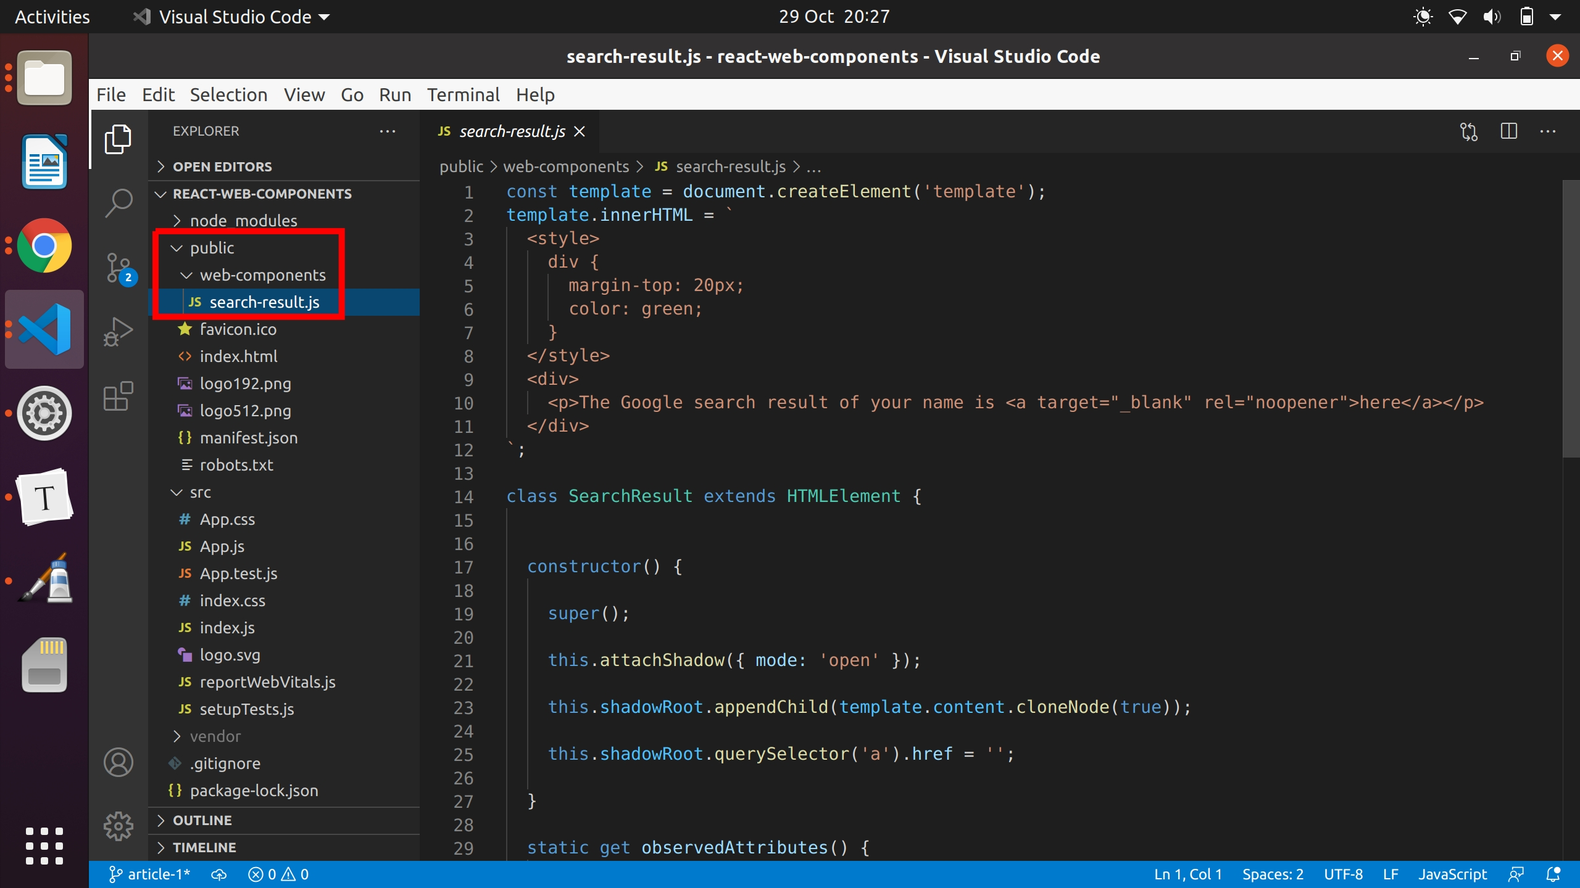
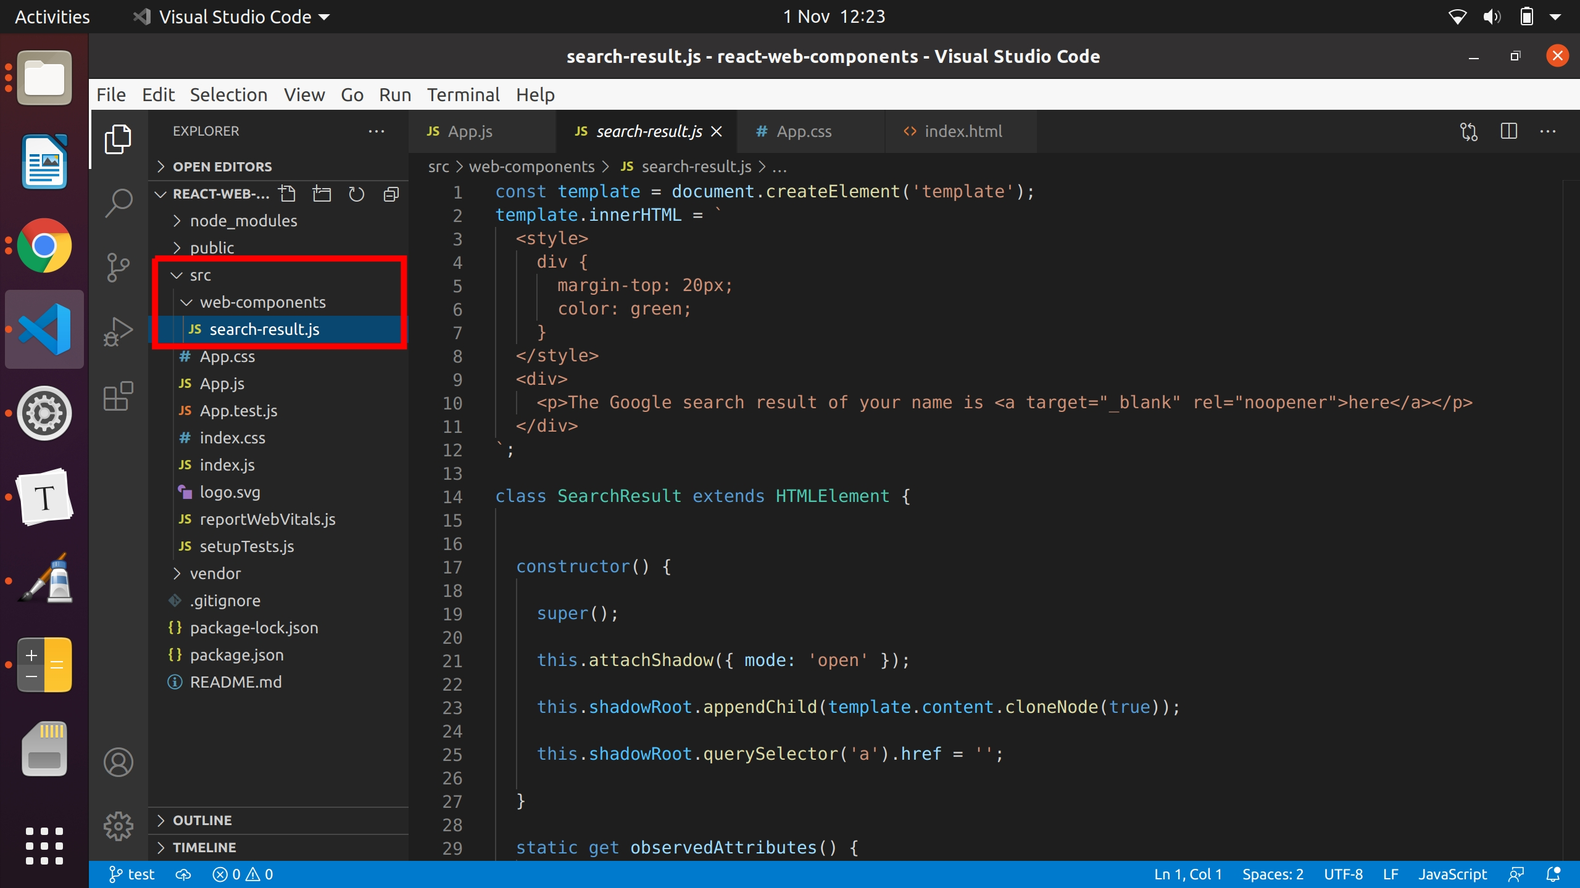
edit readme

diff --git a/Readme.md b/Readme.md
@@ -20,17 +20,17 @@ Table of contents:
 
   
 
-_Acknowledgments: the content of this article was inspired by [Nikos Tsokos](https://twitter.com/n_tsokos), member of [Scotland's Angular Meetup](https://www.youtube.com/channel/UCWIfQn9vUayDkzrrDIjdAjg)_.
+_Special thanks to: [Nikos Tsokos](https://twitter.com/n_tsokos), member of [Scotland's Angular Meetup](https://www.youtube.com/channel/UCWIfQn9vUayDkzrrDIjdAjg) who inspired me to write this article,  [Gonzalo Aguirre](https://twitter.com/\_gonaguirre) Co-Founder & CTO of [Underscope](https://underscope.io), and my fiancée Sarah Acheson for reviewing it._
 
-**Note: when you copy and paste code from the code snippets, don't include the top comment that tells the name of the file, like `//App.js` or `//index.html`.**
+**Note: when you copy and paste code from the code snippets, don't include the top comment that tells the name of the file, like `//App.js` or `//index.html` because it may break your code.**
 
 ## What are web components?
 
 Web Components are a set of web platform APIs that allow you to **create new custom, reusable, encapsulated HTML tags** to use in web pages and web apps.
 
-For example, we can create our new component called  `<my-web-component>`  for example, with it's unique styling and functionality, and use it in **any JS framework or library** . And besides that, it works across **all modern browsers**! Sounds too good to be true, doesn't it? 
+For example, we can create our new component called  `<my-web-component>`, with its unique styling and functionality, and use it in **any JavaScript framework or library** . And besides that, it works across **[most modern browsers!](https://caniuse.com/?search=web%20components)** Sounds too good to be true, doesn't it? 
 
-The fact that these components are framework agnostic, makes creators of components libraries more profitable and future proof as well. This is why this is the next big thing and you should consider getting on board in these early days and take advantage of it.
+The fact that these components are framework agnostic, makes creators of component libraries more profitable and future proof as well. This is why this is the next big thing and you should consider getting on board in these early days and take advantage of it.
 
 If you want to have some extra reading, visit the official website of Web Components at [webcomponents.org](https://www.webcomponents.org/) and the MDN Docs at [developer.mozilla.org/en-US/docs/Web/Web_Components](https://developer.mozilla.org/en-US/docs/Web/Web_Components).
 
@@ -52,7 +52,7 @@ So, the app consists of an input field, where you can type your name, and a gree
 
 After creating this Web Component, we're gonna build the same app in React, Vue and Angular, and consume it in each app.
 
-To create the Web Component, lets open a code editor and create a JS file, that we can name `search-result.js` and paste this content there:
+To create the Web Component, lets open a code editor and create a `.js` file, that we can name `search-result.js` and paste this content there:
 
 ```javascript
 //search-result.js
@@ -112,7 +112,7 @@ You might be wondering what's all the code above about, so lets see each part st
 const template = document.createElement('template');
 ````
 
-The first step is to create a **[HTML Content Template](https://developer.mozilla.org/en-US/docs/Web/HTML/Element/template) (`<template>`) element**, which is a mechanism for holding [HTML](https://developer.mozilla.org/en-US/docs/Glossary/HTML) that is not to be rendered immediately when a page is loaded but may be instantiated subsequently **during runtime using JavaScript**. This `<template>` element can be created with an API provided by the browser `document.createElement()`, that when passed a string with the name of the element we want to create, it returns it. To know more, click [here](https://developer.mozilla.org/en-US/docs/Web/API/Document/createElement).
+The first step is to create a **[HTML Content Template](https://developer.mozilla.org/en-US/docs/Web/HTML/Element/template)** (`<template>`) element, which is a mechanism for holding [HTML](https://developer.mozilla.org/en-US/docs/Glossary/HTML) that is not to be rendered immediately when a page is loaded but may be instantiated subsequently **during runtime using JavaScript**. This `<template>` element can be created with an API provided by the browser `document.createElement()`, that when passed a string with the name of the element we want to create, it returns it. To know more, click [here](https://developer.mozilla.org/en-US/docs/Web/API/Document/createElement).
 
 
 
@@ -132,7 +132,7 @@ template.innerHTML = `
 `;
 ```
 
-This template element is stored in a variable called `template` that has some properties and one of them is [innerHTML](https://www.w3schools.com/jsref/prop_html_innerhtml.asp) which sets the HTML content of the element. There, we can add the HTML we want to display on the screen, like `<div>  `, `<p>`, `<a>` and elements.
+This template element is stored in a variable called `template` that has some properties and one of them is [innerHTML](https://www.w3schools.com/jsref/prop_html_innerhtml.asp) which sets the HTML content of the element. There, we can add the HTML we want to display on the screen, like `<div>  `, `<p>`, `<a>` and any other elements.
 
 
 
@@ -142,9 +142,9 @@ This template element is stored in a variable called `template` that has some pr
 class SearchResult extends HTMLElement { }
 ```
 
-Once we got our template ready, we need JavaScript to instantiate it, and this can be done extending and interface called [HTMLElement](https://developer.mozilla.org/en-US/docs/Web/HTML/Element/template), creating our custom HTML element.
+Once we got our template ready, we need JavaScript to instantiate it, and this can be done extending an interface called [HTMLElement](https://developer.mozilla.org/en-US/docs/Web/HTML/Element/template), creating our custom HTML element.
 
-f you are a bit lost here, remember when you have extended a React.Component to create a class based component in React. Here, we're extending the [HTMLElement](https://developer.mozilla.org/en-US/docs/Web/HTML/Element/template) interface instead, which is native browser API, and not a class or interface from the React library.
+If you are a bit lost here, but you have worked with React, remember when you extended `React.Component` to create a class based component in React. Here, we're extending the [HTMLElement](https://developer.mozilla.org/en-US/docs/Web/HTML/Element/template) interface instead, which is native browser API, and not a class or interface from the React library.
 
 
 
@@ -164,27 +164,27 @@ constructor() {
   }
 ```
 
-The constructor of the parent interface needs to be called to inherit all the methods and properties using the method `super()`. If you have used React in the early days, `super()` required when creating a class based component. This `constructor()` runs right away when the components is created at runtime.
+The constructor of the parent interface needs to be called to inherit all the methods and properties using the method `super()`. If you have used React in the early days, `super()` was required when creating a class based component. This `constructor()` runs right away when the component is created at runtime.
 
-To recap, we have already created the template, and created the HTML element. Now, it's time to use the [shadow DOM](https://developer.mozilla.org/en-US/docs/Web/Web_Components/Using_shadow_DOM) to provide encapsulation — which means being able to keep the markup structure, style, and behavior hidden and separate from other code on the page so that different parts do not clash, and the code can be kept nice and clean. The Shadow DOM API is a key part of this, providing a way to attach a hidden separated DOM to an element.
+To recap, we have already created the template and the HTML element. Now, it's time to use the [shadow DOM](https://developer.mozilla.org/en-US/docs/Web/Web_Components/Using_shadow_DOM) to provide encapsulation — which means being able to keep the markup structure, style, and behavior hidden and separate from other code on the page so that different parts do not clash, and the code can be kept nice and clean. The Shadow DOM API is a key part of this, providing a way to attach a hidden separated DOM to an element.
 
 This step of using the [shadow DOM](https://developer.mozilla.org/en-US/docs/Web/Web_Components/Using_shadow_DOM) is optional, but it's the usual way of writing clean components.
 
-How to attach the [shadow DOM](https://developer.mozilla.org/en-US/docs/Web/Web_Components/Using_shadow_DOM) to an element, there's a method called [`attachShadow()`](https://developer.mozilla.org/en-US/docs/Web/API/Element/attachShadow) which accepts an object with key value pair`mode: 'open'`,  to set the *encapsulation mode* for the shadow DOM tree. When is `open`, the elements of the shadow root are accessible from JavaScript outside the root, for example using [`Element.shadowRoot`](https://developer.mozilla.org/en-US/docs/Web/API/Element/shadowRoot). 
+To attach the [shadow DOM](https://developer.mozilla.org/en-US/docs/Web/Web_Components/Using_shadow_DOM) to an element, there's a method called [`attachShadow()`](https://developer.mozilla.org/en-US/docs/Web/API/Element/attachShadow) which accepts an object with a key value pair `mode: 'open'`,  to set the *encapsulation mode* for the shadow DOM tree. When is `open`, the elements of the shadow root are accessible from JavaScript outside the root, for example using [`Element.shadowRoot`](https://developer.mozilla.org/en-US/docs/Web/API/Element/shadowRoot). 
 
 In other words, when writing in Vanilla JavaScript, we access the DOM elements with the document object, like for example `document.querySelector('#title')`; to select an element with `id='title`; now, our Web Component will live inside the [shadow DOM](https://developer.mozilla.org/en-US/docs/Web/Web_Components/Using_shadow_DOM) (not at the main DOM tree root level) so we CAN'T use the document object, but the [shadowRoot](https://developer.mozilla.org/en-US/docs/Web/API/ShadowRoot) object instead, which is the interface of the Shadow DOM API and is the root node of a DOM subtree that is rendered separately from a document's main DOM tree.
 
 So, now, we can access the web component at runtime with the [shadowRoot](https://developer.mozilla.org/en-US/docs/Web/API/ShadowRoot) object and the Web Component's content stored in the `template` variable, and we can attach and remove event listeners, and so on.
 
-The line of code holding` this.shadowRoot.appendChild(template.content.cloneNode(true));` deep clones all the content of the template and appends  it as a child to our Web Component. More info about it [here](https://developer.mozilla.org/en-US/docs/Web/API/Node/cloneNode).
+The line of code holding ` this.shadowRoot.appendChild(template.content.cloneNode(true));` deep clones all the content of the template and appends it as a child to our Web Component. More info about it [here](https://developer.mozilla.org/en-US/docs/Web/API/Node/cloneNode).
 
-The `href` attribute can't be hard-coded, because it depends on what the user types inside the input field for the name. So this content must be added at runtime and, as a consequence, the `<a>` element must also be accessed at runtime and have its `href` attribute value initialized with this code: `this.shadowRoot.querySelector('a').href = '';`
+The `href` attribute can't be hard-coded, because it depends on what the user types inside the input field for the name. So, this content must be added at runtime and, as a consequence, the `<a>` element must also be accessed at runtime and have its `href` attribute value initialized with this code: `this.shadowRoot.querySelector('a').href = '';`
 
 
 
 5) **Declare the watched attributes:**
 
-The app will pass the dynamic name via one attribute called `name-attribute` , but web components don't watch for attribute value changes by default, so this must be do manually with a static method:  
+The app will pass the dynamic name via one attribute called `name-attribute` , but Web Components don't watch for attribute value changes by default, so this must be done manually with a static method:  
 
 ```javascript
 static get observedAttributes() {
@@ -212,13 +212,13 @@ The `attributeChangedCallback()` method has three arguments: the `name` of the a
 
 The `if` could be omitted in this case because we only have one attribute watched for, but in general, there might be more than one and we want to react in different ways depending on which one changed. Another nice approach is to use a `switch` statement instead.
 
-The piece of code above generates a  Google search query holding the dynamic `newValue`.
+The piece of code above generates a Google search query holding the dynamic `newValue`.
 
 
 
 7) **Let the browser know about our new custom Web Component:**
 
-Our web component has already been created, but one more step is missing. The browser only knows about the default HTML elements like `<div>`, `<p>` and so on, but it doesn't know what a `<search-result>` tag is, for example. To let the browser know about it, we need to interact with the [CustomElementRegistry](https://developer.mozilla.org/en-US/docs/Web/API/CustomElementRegistry) which can be instantiated and accessed via `window.customElements` and then access the [define()](https://developer.mozilla.org/en-US/docs/Web/API/CustomElementRegistry/define) method inside it:
+Our Web Component has already been created, but one more step is missing. The browser only knows about the default HTML elements like `<div>`, `<p>` and so on, but it doesn't know what a `<search-result>` tag is, for example. To let the browser know about it, we need to interact with the [CustomElementRegistry](https://developer.mozilla.org/en-US/docs/Web/API/CustomElementRegistry) which can be instantiated and accessed via `window.customElements` and then access the [define()](https://developer.mozilla.org/en-US/docs/Web/API/CustomElementRegistry/define) method inside it:
 
  ```javascript
 window.customElements.define('search-result', SearchResult);
@@ -232,7 +232,7 @@ The first argument we pass to it is the name of the new custom element. **Note t
 
 **Bonus:**
 
-There are other life-cycle methods available inside a Web Component, and this are:
+There are other life-cycle methods available inside a Web Component, and these are:
 
 - `connectedCallback`: Invoked when the custom element is first connected to the document's DOM.
 - `disconnectedCallback`: Invoked when the custom element is disconnected from the document's DOM.
@@ -248,7 +248,7 @@ React is the most popular Front End library used nowadays to build apps. So, let
 
 1) **Create the App**
 
-Let's call the app `react-web-components`. In any folder type these commands, one at a time:
+Let's call the app `react-web-components`. Feel free to choose other name as well. In any folder, type these commands, one at a time:
 
 ````
 npx create-react-app react-web-components
@@ -262,14 +262,22 @@ You'll see the following on `localhost:3000` in your browser:
 
 
 
-2) **Modify `/src/App.js`** by pasting this code inside:
+2) **Add our Web Component to the App**,  by copying the `search-result.js`  file containing our component inside, and paste it inside a folder that we'll call `web-components` inside the `src` folder of the project. So, the web-component will be located at `/src/web-components/search-result.js`.
+
+![](./images/react-2.jpg)
+
+
+
+3) **Modify `/src/App.js`** by pasting this code inside:
 
 ```javascript
 //App.js
 
 import { useState } from 'react';
-import './App.css';
 
+import './App.css';
+//import our Web Component
+import './web-components/search-result';
 
 function App() {
 
@@ -298,7 +306,7 @@ The code above stores the value from the `<input>` field in the state and passes
 
 
 
-3) **Modify `/src/App.css`**, by adding this lines of code, to center the text and move the content further from the top search bar of the browser:
+4) **Modify `/src/App.css`**, by adding this lines of code to give the app a better look.
 
 ```css
 //App.css
@@ -316,25 +324,11 @@ The code above stores the value from the `<input>` field in the state and passes
 
 
 
-4) **Add our Web Component to the App**,  by copying the `search-result.js`  file containing our component inside, and paste it inside a folder that we'll call `web-components` inside the `public` folder of the project. So, the web-component will be located at `/public/web-components/search-result.js`.
-
-![](/home/esteban/Documents/coding/articles/web-components/article/intro-article/images/react-2.jpg)
-
-Placing a `.js` file in a folder is not enough for the app to be able to use straight away; we need to let it know about this file, by adding this line of code at the end of the `<body>` inside `/public/index.html`, where scripts are usually added:
-
-```html
-//index.html
-
-<script src="%PUBLIC_URL%/web-components/search-result.js"></script>
-```
-
-
-
 5) **Add two polyfills to get browser support and to use Web Components in ES5 transpiled code:**
 
 The following steps are extracted from a [tutorial](https://vaadin.com/learn/tutorials/using-web-components-in-react) at [vaadin.com](https://vaadin.com):
 
-Although most modern browsers ship with built-in support for Web Components, there are still users out there with older browsers. If you want to make your app available to them as well, you want to include *polyfills* that emulate the functionality in browsers without native support.
+Although most modern browsers ship with built-in support for Web Components, there are still users out there with older browsers. If you want to make your app available to them as well, you need to include *polyfills* that emulate the functionality in browsers without native support.
 
 We use the `webcomponentsjs` polyfills and we also make use of `vendor-copy` to make the polyfills available on runtime. 
 
@@ -381,7 +375,7 @@ d) Run this command in the terminal:
 npm install
 ```
 
-After this process finished, you'll see a `vendor` folder, at the same level as `public` and `src` folders. You'll have two files inside the `vendor` folder: `custom-elements-es5-adapter.js` and `webcomponents-bundle.js`. 
+After this process finished, you'll see a `/public/vendor` folder that has been created. You'll have two files inside it: `custom-elements-es5-adapter.js` and `webcomponents-bundle.js`. 
 
 ![](./images/react-3.jpg)
 
@@ -408,7 +402,7 @@ Open the browser on `localhost:3000` and you'll see this:
 
 
 
-That's it! **Our React App uses our custom Web Component now! Well done!** 
+That's it! **Our React app uses our custom Web Component now! Well done!** 
 
 
 
@@ -442,7 +436,13 @@ If you open the browser and go to `localhost:8080`, you should see this:
 
 
 
-3) **Modify `/src/App.vue`** file by replacing its default content with this code:
+3) **Add our Web Component to the App**,  by copying the `search-result.js`  file containing our component, and paste it in inside a folder that we'll call `web-components` inside the `src` folder of the project. So, the web-component will be located at `/src/web-components/search-result.js`.
+
+![](./images/vue-2.jpg)
+
+
+
+4) **Modify `/src/App.vue`** file by replacing its default content with this code:
 
 ```vue
 //App.vue
@@ -462,16 +462,19 @@ If you open the browser and go to `localhost:8080`, you should see this:
 </template>
 
 <script>
+  //import our Web Component
+  import './web-components/search-result.js';
   
   export default {
+
     data() {
       return {
-        name: ''
+        name: '' 
       }
-  }
+  } 
 
   }
-</script>
+</script>   
 
 <style>
 .App {
@@ -482,20 +485,6 @@ If you open the browser and go to `localhost:8080`, you should see this:
   margin-top: 20px;
 }
 </style>
-```
-
-
-
-4) **Add our Web Component to the App**,  by copying the `search-result.js`  file containing our component inside, and paste it in inside a folder that we'll call `web-components` inside the `public` folder of the project. So, the web-component will be located at `/public/web-components/search-result.js`.
-
-![](./images/vue-2.jpg)
-
-Now, lets import the `search-result.js` file into `/public/index.html`, at the end of the `<body>` tag:
-
-```html
-//index.html
-
-<script src="/web-components/search-result.js"></script>
 ```
 
 
@@ -514,7 +503,7 @@ npm install --save-dev copy-webpack-plugin @webcomponents/webcomponentsjs
 
 b) Copy the polyfills:
 
-The first thing we need to do is copy over the polyfills. You can do this by providing Vue with an additional Webpack configuration. Create a new file, `vue.config.js` in the root of your project.
+The first thing we need to do is copy over the polyfills. You can do this by providing Vue with an additional Webpack configuration. Create a new file, `vue.config.js` at the root of your project.
 
 ````javascript
 //vue.config.js
@@ -538,6 +527,10 @@ module.exports = {
   }
 };
 ````
+
+![](./images/vue-3.jpg)
+
+
 
 The `CopyWebpackPlugin` will now copy over all the needed JavaScript files into a `webcomponents` directory in the `dist` directory when building the app. 
 
@@ -566,7 +559,7 @@ npm run serve
 
 Open the browser on `localhost:8080` and you'll see this:
 
-![](./images/vue-3.jpg)
+![](./images/vue-4.jpg)
 
 That's it! **Our Vue App uses our custom Web Component now! Congratulations!** 
 
@@ -604,11 +597,15 @@ If you open the browser and go to `localhost:4200`, you should see this:
 
 
 
-3) **Modify the `/src/app/app.module.ts` file:**
+3) **Add our Web Component to the App**,  by copying the `search-result.js`  file containing our component, and paste it in inside a folder that we'll call `web-components` inside the `/src/app` folder of the project. So, the web-component will be located at `/src/app/web-components/search-result.js`.
+
+![](./images/angular-2.jpg)
+
+4) **Modify the `/src/app/app.module.ts` file:**
 
 To use two way data binding in our `<input>` element, lets add the `FormsModule` to the `imports` array.
 
-Angular will NOT recognize by default our custom HTML tag of our Web Component, so lets add a `schemas` property inside `@NgModule` decorator, and add `CUSTOM_ELEMENTS_SCHEMA` inside the  `schemas` array . The code should look like this:
+Angular will NOT recognize by default our custom HTML tag of our Web Component, so lets add a `schemas` property inside the `@NgModule` decorator, and add `CUSTOM_ELEMENTS_SCHEMA` inside the `schemas` array. The code should look like this:
 
 ```typescript
 //app.module.ts
@@ -636,10 +633,10 @@ export class AppModule { }
 
 
 
-4) **Modify `/src/app/app.component.html`**  by replacing its default content with this code:
+5) **Modify `/src/app/app.component.html`**  by replacing its default content with this code:
 
 ```html
-//app.component.ts
+//app.component.html
 
 <div class="App">
       
@@ -658,7 +655,7 @@ export class AppModule { }
 
 
 
-5) **Modify `/src/app/app.component.css`** by adding this content inside:
+6) **Modify `/src/app/app.component.css`** by adding this content inside:
 
 ```css
 //app.component.css
@@ -675,23 +672,30 @@ export class AppModule { }
 
 
 
-6) **Add our Web Component to the App**,  by copying the `search-result.js`  file containing our component inside, and paste it in inside a folder that we'll call `web-components` inside the `/src/assets` folder of the project. So, the web-component will be located at `/src/assets/web-components/search-result.js`.
+7) **Modify `/src/app/app.component.ts`** by adding this content inside:
 
-![](./images/angular-2.jpg)
+```typescript
+//app.component.ts
 
-Now, lets import the `search-result.js` file inside `/src/index.html`, at the end of the `<body>` tag:
+import { Component } from '@angular/core';
+//import our Web Component
+import './web-components/search-result.js';
 
-```html
-//index.html
-
-<script src="assets/web-components/search-result.js"></script>
+@Component({
+  selector: 'app-root',
+  templateUrl: './app.component.html',
+  styleUrls: ['./app.component.css']
+})
+export class AppComponent {
+  name;
+}
 ```
 
 
 
-7) **Add the polyfills:**
+8) **Add the polyfills:**
 
-if you skipped the React and Vue sections and you don't know about what these polyfills are, read about them, above in the step 5 of the React and Vue sections
+if you skipped the React and Vue sections and you don't know about what these polyfills are, read about them, above, in the step 5 of the React and Vue sections.
 
 This steps were copied from a [tutorial](https://vaadin.com/learn/tutorials/using-web-components-in-angular) at [vaadin.com](https://vaadin.com).
 
@@ -721,9 +725,9 @@ c) Then, include the loader and an optional import for the ES5 compatibility scr
 ```html
 //index.html
 
-<script src="webcomponents/webcomponents-loader.js"></script>
+<script src="webcomponents/webcomponents-loader.js"></script> 
 <script>
-  if (!window.customElements{document.write('<!--');}
+  if (!window.customElements){document.write('<!--');}
 </script>
 <script src="webcomponents/custom-elements-es5-adapter.js"></script>
 <!-- ! DO NOT REMOVE THIS COMMENT, WE NEED ITS CLOSING MARKER -->
@@ -731,7 +735,7 @@ c) Then, include the loader and an optional import for the ES5 compatibility scr
 
 
 
-7) **Verify that you can run the application** running this command on the terminal:
+9) **Verify that you can run the application** running this command on the terminal:
 
 ```bash
 ng serve
